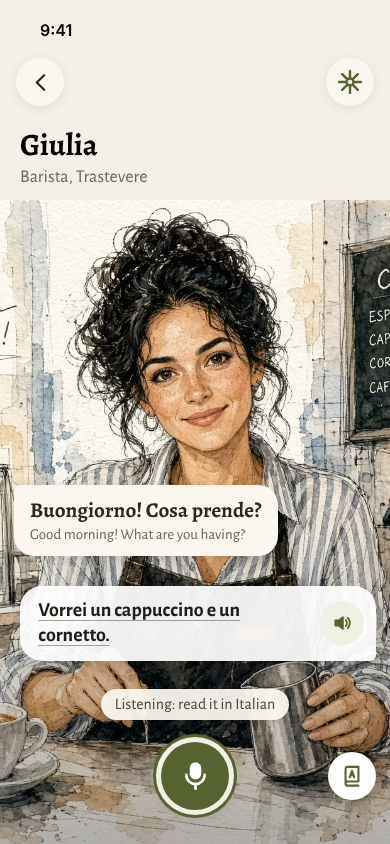
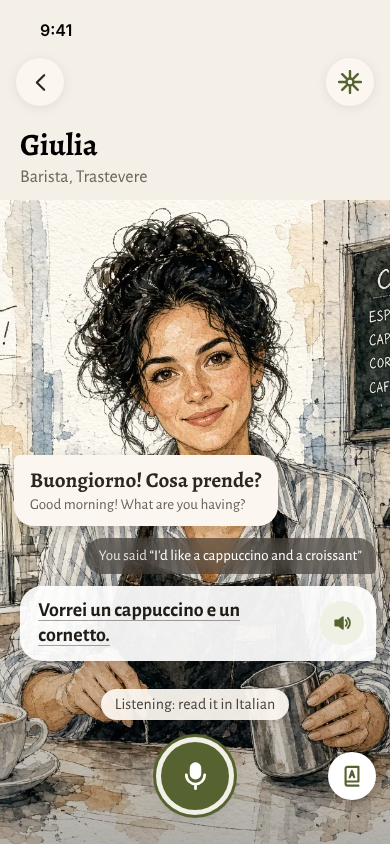
Say it in English G2: the grey English bubble comes back (Josh)
I had misread "don't need the extra bubble" as dropping the grey bubble with
what the learner said in English. Josh: "It showed English in own bubble.
Good. It doesn't repeat in the bubble to read." G2 now has the grey English
bubble and the Italian bubble with no English in it.

Claude-Session: https://claude.ai/code/session_01HuSMtjsR1f1fbNVszYXEaS

Changed region(s): [[0.0308, 0.5237, 0.9846, 0.6777]]

diff --git a/docs/beginner-scaffolding.md b/docs/beginner-scaffolding.md
@@ -16,7 +16,7 @@ Rewritten 2026-10-22 (Josh: "rewrite docs") into one current picture. Three plan
 Josh: "inside the game we can simplify all the scaffolding to just be say it, get this language back, read it." Onboarding is separate and keeps its buttons ("treat onboarding different in every way").
 - **The direction:** in conversations, scaffolding is only "say it in English" (below): say what you mean in English, get one line back in the language at your level, read it out loud. The two answer bubbles, the stages and the read-aloud panel built 2026-10-22 ([reply-panel.md](reply-panel.md)) would go. The panel stays until the new loop has been played.
 - **The mechanic (Josh):** speak English into the mic → a line in the language comes back to read aloud. **Where it shows is open:** a bubble in the conversation, or a sheet (Josh: "or we could redesign to use sheet"). Claude's view: the sheet, i.e. the reply panel built 2026-10-22 with one line instead of two. The instruction sits by the mic, a "hear it" control fits there, and a sheet reads as "to say" while bubbles read as "said".
-  **Josh prefers the bubble (G2), 2026-10-23,** with only the Italian coming back: no English under it and no "You said" bubble (Josh: "with read it in Italian translation bubble, don't need the extra bubble"), and, with the one-tap turn, the mic already reopened for the reading (the hands-free ring) under "Listening: read it in Italian". No "tap" in the instructions (Josh). His concern: how often the English is transcribed wrong. Plan: measure it (below) before building.
+  **Josh prefers the bubble (G2), 2026-10-23,** with what you said in English in its own grey bubble, and the Italian bubble to read below it with no English repeated in it (Josh: "It showed English in own bubble. Good. It doesn't repeat in the bubble to read."), and, with the one-tap turn, the mic already reopened for the reading (the hands-free ring) under "Listening: read it in Italian". No "tap" in the instructions (Josh). His concern: how often the English is transcribed wrong. Plan: measure it (below) before building.
   Mock-ups: canvas "Reply buttons", row G ([G1](../design/say-it-in-english/G1.png) your turn, [G2](../design/say-it-in-english/G2.png) bubble, [G3](../design/say-it-in-english/G3.png) sheet).
 - **One tap per turn (Josh, an idea):** "mic for English, mic for reading might feel awkward." Tap the mic once to start; the turn then runs by itself (your English ends on silence, the line comes back, the mic reopens for the reading, the reading ends on silence and is sent) and stops when she replies; tap again for the next turn. A hands-free that lives inside one turn, and maybe the default for everyone. Care: the reading's mic must wait for speech to start (a learner may take a while to read the line) and stay closed while "hear it" plays; interruptions still leave you on your turn with the mic closed.
 - **The character closes the conversation (Josh, an idea):** "always give character final turn to decide done." She always has the last turn, and she decides when the exchange is naturally over (the coffee's paid for, the ticket's bought) and says goodbye in role. That gives the game the end it lacks today (a conversation ends only when the learner leaves, `markConversationEnded`), so the end-of-conversation offers, Learn and the memory pass get a real moment. Needs: a `done` signal next to `{ line, en }` from the character call (CLAUDE.md keeps the reply to `{ line, en }`, so Josh's call), a prompt trial so she doesn't close too early or never, and the learner can leave first.
@@ -27,7 +27,7 @@ Josh: "inside the game we can simplify all the scaffolding to just be say it, ge
   - **Reading a line you've never heard.** Beginners mispronounce Italian they've only seen. Playing the line in the character's voice first, or a tap to hear it, may be needed.
   - **No recall.** Reading back is repeating, not producing. Fading has to come from the learner taking the wheels off: try in Italian first, the line only if stuck, then hidden after a glance.
   - **Comprehension** is probably fine: to say something sensible you have to understand her, and "I didn't understand" said in English comes back as *Può ripetere?*, the help phrase itself.
-  - **English transcription errors.** Fuori uses `whisper-large-v3-turbo` on Groq. Published English error rates for clean read speech are low, but real-world audio is worse, and Whisper is known to invent text on silence. Short phone clips from learners haven't been measured. The transcript isn't shown, so a wrong one shows up only as an Italian line that doesn't match what they meant; they can say it again. The line writer can also fix small slips from context ("corn net" → *cornetto*). To measure: record 30–50 typical English requests on Josh's iPhone, run them through `/v1/transcribe`, count the ones that come back wrong enough to change the Italian.
+  - **English transcription errors.** Fuori uses `whisper-large-v3-turbo` on Groq. Published English error rates for clean read speech are low, but real-world audio is worse, and Whisper is known to invent text on silence. Short phone clips from learners haven't been measured. The transcript shows in the grey bubble, so the learner sees a wrong one and can say it again. The line writer can also fix small slips from context ("corn net" → *cornetto*). To measure: record 30–50 typical English requests on Josh's iPhone, run them through `/v1/transcribe`, count the ones that come back wrong enough to change the Italian.
   - **The line at their level,** not a literal translation (prompt work).
 
 ## Proposal: training wheels the learner takes off (Josh, 2026-10-22; direction agreed, details not decided)
